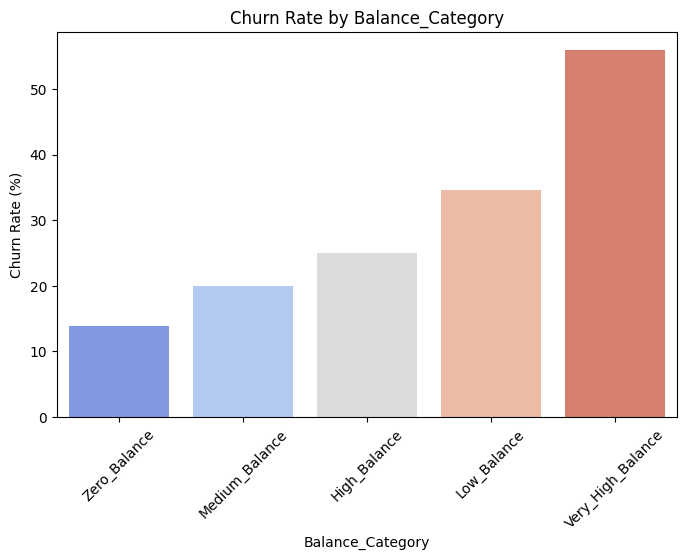
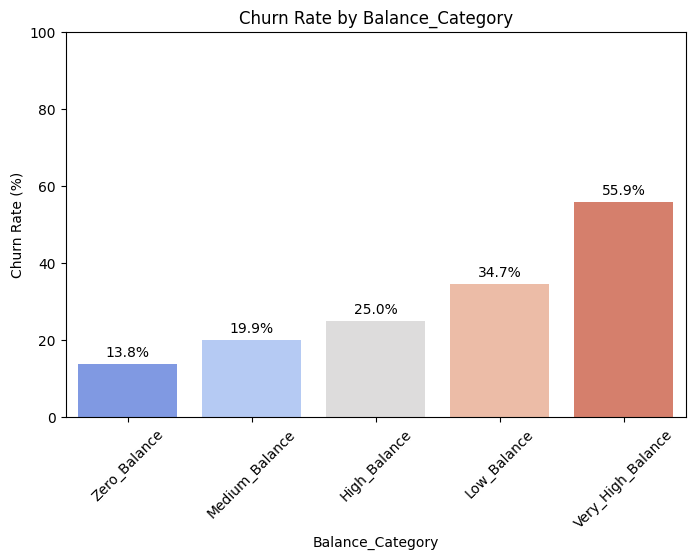
Improved visualized output

diff --git a/scripts/step6_data_visualization.py b/scripts/step6_data_visualization.py
@@ -15,28 +15,58 @@ def save_plot(fig, filename):
     fig.savefig(rf"{base_file}\results\figures\{filename}", bbox_inches='tight')
     plt.close(fig)
 
+import matplotlib.pyplot as plt
+import seaborn as sns
+
+import matplotlib.pyplot as plt
+import seaborn as sns
+
 def plot_churn_distribution(df):
     """Plot and save the overall churn distribution."""
-    fig, ax = plt.subplots(figsize=(6,4))
-    sns.countplot(x='Exited', hue='Exited', data=df, palette=['blue', 'red'], ax=ax, legend=False)
+    fig, ax = plt.subplots(figsize=(6, 4))
+
+    # Create the count plot
+    bars = sns.countplot(x='Exited', hue='Exited', data=df, palette=['blue', 'red'], ax=ax, legend=False)
+
+    # Add labels inside each bar
+    for bar in bars.containers:
+        ax.bar_label(bar, fmt="%d", padding=-20, color='white', weight='bold', fontsize=12)  
+
+    # Add grid lines
+    ax.yaxis.grid(True, linestyle='dashed', alpha=0.6)  # Dashed horizontal grid lines
+    ax.set_axisbelow(True)  # Ensures grid lines stay behind bars
+
+    # Formatting the x-axis
     ax.set_xticks([0, 1]) 
     ax.set_xticklabels(['Stayed', 'Churned'])
+
+    # Titles and labels
     ax.set_title("Customer Churn Distribution")
     ax.set_xlabel("Churn")
     ax.set_ylabel("Count")
-    
+
+    # Save the plot
     save_plot(fig, "churn_distribution.png")
+
+
 
 def plot_churn_by_category(df, category_col):
     """Plot and save churn rates across different categories."""
-    fig, ax = plt.subplots(figsize=(8,5))
-    sns.barplot(x=category_col, y='Exited', hue=category_col, data=df, 
-            estimator=lambda x: sum(x)/len(x)*100, 
-            errorbar=None, palette='coolwarm', ax=ax, legend=False)
+    fig, ax = plt.subplots(figsize=(8, 5))
+    
+    # Create the bar plot
+    bars = sns.barplot(x=category_col, y='Exited', hue=category_col, data=df, 
+                       estimator=lambda x: sum(x)/len(x)*100, 
+                       errorbar=None, palette='coolwarm', ax=ax, legend=False)
+
+    # Annotate bars with percentage values
+    for bar in bars.containers:
+        ax.bar_label(bar, fmt="%.1f%%", padding=3)
 
     ax.set_title(f"Churn Rate by {category_col}")
     ax.set_ylabel("Churn Rate (%)")
     ax.set_xlabel(category_col)
+    ax.set_ylim(0, 100)  # Ensure y-axis ranges from 0 to 100%
     plt.xticks(rotation=45)
 
     save_plot(fig, f"churn_by_{category_col}.png")
